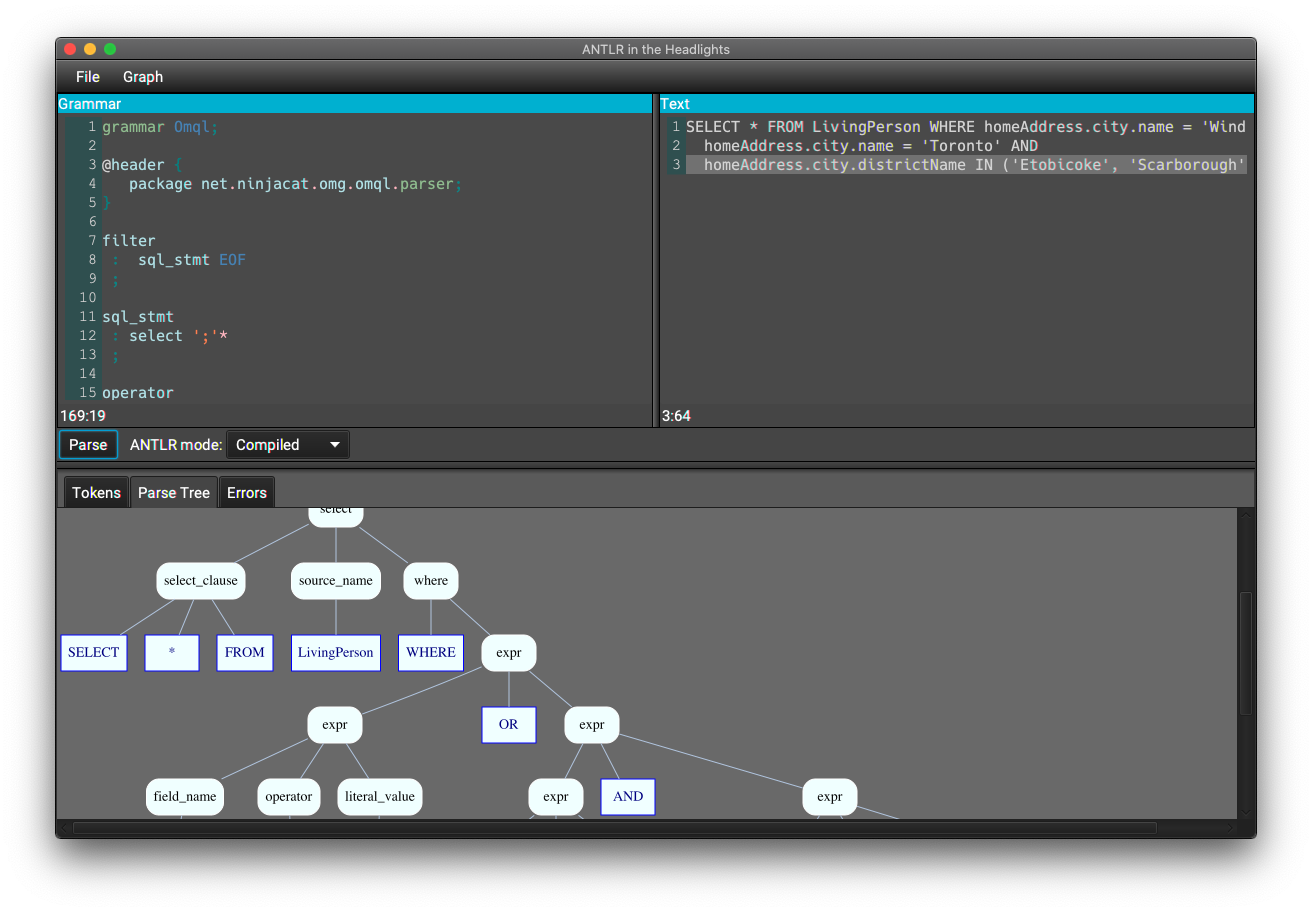
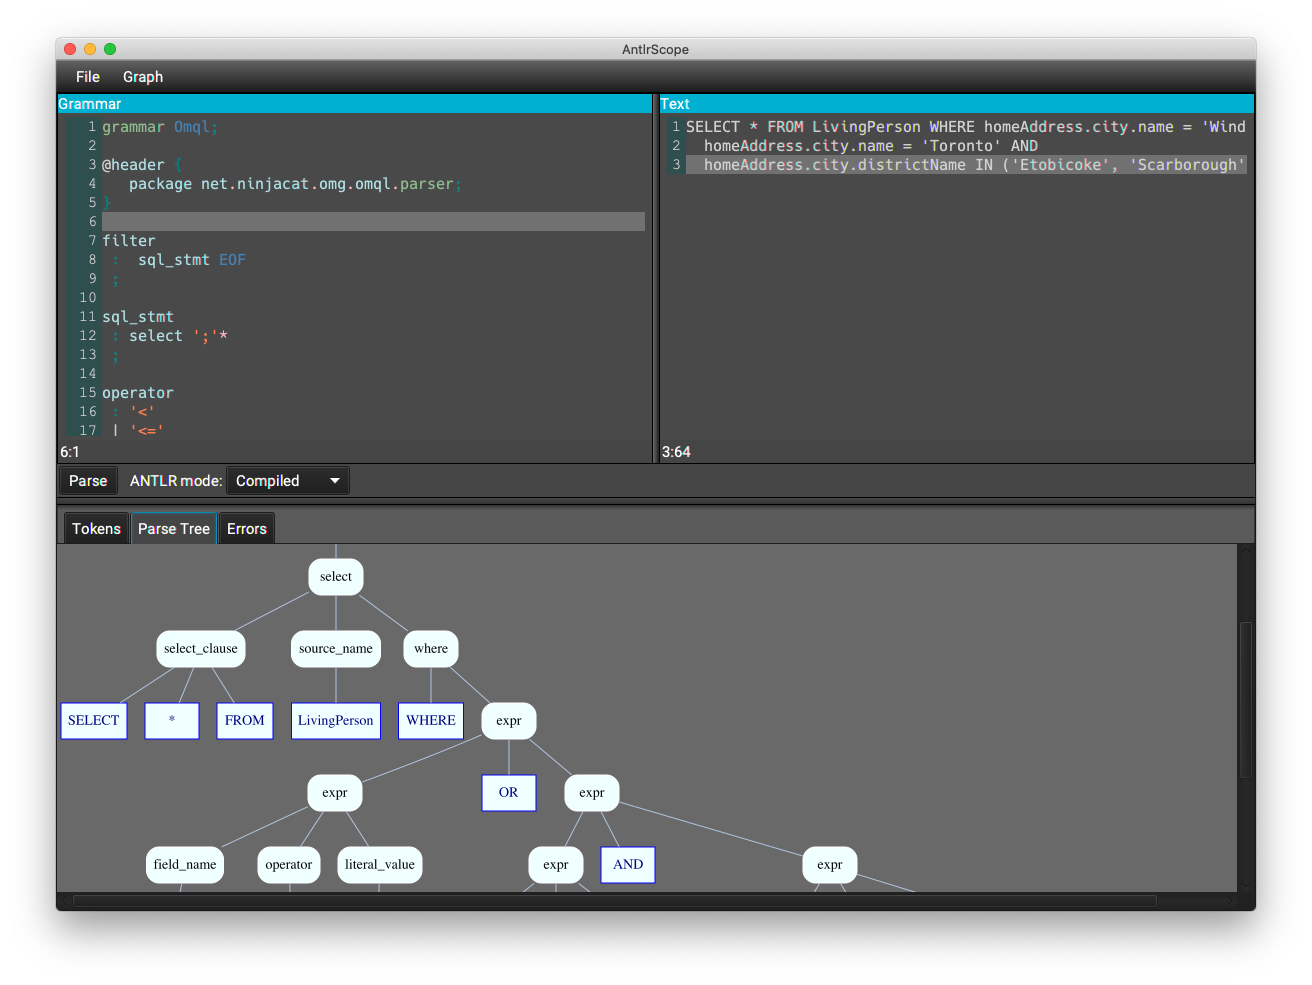
Renaming more

Changed region(s): [[0.0312, 0.0307, 0.9688, 0.9518], [0.5312, 0.8289, 0.5938, 0.8596]]

diff --git a/src/main/kotlin/net/ninjacat/antlrscope/App.kt b/src/main/kotlin/net/ninjacat/antlrscope/App.kt
@@ -1,4 +1,4 @@
-package net.ninjacat.headlights
+package net.ninjacat.antlrscope
 
 import ch.qos.logback.classic.Level
 import javafx.application.Application
@@ -18,9 +18,9 @@ import javafx.scene.layout.Priority
 import javafx.scene.layout.VBox
 import javafx.stage.FileChooser
 import javafx.stage.Stage
-import net.ninjacat.headlights.antlr.*
-import net.ninjacat.headlights.ui.GrammarTextEditorPane
-import net.ninjacat.headlights.ui.OutputPane
+import net.ninjacat.antlrscope.antlr.*
+import net.ninjacat.antlrscope.ui.GrammarTextEditorPane
+import net.ninjacat.antlrscope.ui.OutputPane
 import org.slf4j.Logger
 import org.slf4j.LoggerFactory
 import java.awt.Desktop
@@ -36,7 +36,7 @@ class AntlrViewApp : Application() {
     private val antlrMode = ComboBox(FXCollections.observableArrayList("Interpreted", "Compiled"))
 
     override fun start(primaryStage: Stage) {
-        primaryStage.title = "ANTLR in the Headlights"
+        primaryStage.title = "AntlrScope"
         primaryStage.width = 1200.0
         primaryStage.height = 800.0
 
@@ -256,7 +256,7 @@ class AntlrViewApp : Application() {
     }
 
     companion object { 
-        private val LOGGER: Logger = LoggerFactory.getLogger("headlights")
+        private val LOGGER: Logger = LoggerFactory.getLogger("antlrscope")
     }
 
 

diff --git a/src/main/kotlin/net/ninjacat/antlrscope/antlr/AntlrCompiler.kt b/src/main/kotlin/net/ninjacat/antlrscope/antlr/AntlrCompiler.kt
@@ -1,4 +1,4 @@
-package net.ninjacat.headlights.antlr
+package net.ninjacat.antlrscope.antlr
 
 import org.antlr.v4.Tool
 import org.antlr.v4.tool.Grammar
@@ -96,7 +96,7 @@ class AntlrCompiler(grammar: String, text: String, private val javaCompiler: Jav
     }                            
 
     companion object {
-        val LOGGER: Logger = LoggerFactory.getLogger("headlights.antlr.compiler")
+        val LOGGER: Logger = LoggerFactory.getLogger("antlrscope.antlr.compiler")
 
         val grammarNameExtractor: Pattern =
             Pattern.compile("(?:(?:lexer|parser)\\s+)?grammar\\s+([a-zA-Z_]\\w*);", Pattern.DOTALL)

diff --git a/src/main/kotlin/net/ninjacat/antlrscope/ui/OutputPane.kt b/src/main/kotlin/net/ninjacat/antlrscope/ui/OutputPane.kt
@@ -1,12 +1,12 @@
-package net.ninjacat.headlights.ui
+package net.ninjacat.antlrscope.ui
 
 import javafx.event.EventHandler
 import javafx.scene.control.*
 import javafx.scene.control.cell.PropertyValueFactory
 import javafx.scene.input.MouseButton
-import net.ninjacat.headlights.antlr.ErrorMessage
-import net.ninjacat.headlights.antlr.LexerToken
-import net.ninjacat.headlights.antlr.ParseTreeNode
+import net.ninjacat.antlrscope.antlr.ErrorMessage
+import net.ninjacat.antlrscope.antlr.LexerToken
+import net.ninjacat.antlrscope.antlr.ParseTreeNode
 import java.util.function.Consumer
 
 class OutputPane : TabPane() {

diff --git a/src/main/kotlin/net/ninjacat/antlrscope/ui/GraphvizView.kt b/src/main/kotlin/net/ninjacat/antlrscope/ui/GraphvizView.kt
@@ -1,4 +1,4 @@
-package net.ninjacat.headlights.ui
+package net.ninjacat.antlrscope.ui
 
 import guru.nidi.graphviz.engine.Format
 import guru.nidi.graphviz.engine.Graphviz
@@ -6,8 +6,8 @@ import guru.nidi.graphviz.parse.Parser
 import javafx.scene.control.ScrollPane
 import javafx.scene.image.Image
 import javafx.scene.image.ImageView
-import net.ninjacat.headlights.GraphvizGen
-import net.ninjacat.headlights.antlr.ParseTreeNode
+import net.ninjacat.antlrscope.GraphvizGen
+import net.ninjacat.antlrscope.antlr.ParseTreeNode
 import java.io.ByteArrayInputStream
 import java.io.ByteArrayOutputStream
 

diff --git a/src/main/kotlin/net/ninjacat/antlrscope/ui/GrammarTextEditorPane.kt b/src/main/kotlin/net/ninjacat/antlrscope/ui/GrammarTextEditorPane.kt
@@ -1,4 +1,4 @@
-package net.ninjacat.headlights.ui
+package net.ninjacat.antlrscope.ui
 
 import javafx.event.Event
 import javafx.event.EventHandler
@@ -11,8 +11,8 @@ import javafx.scene.input.MouseEvent
 import javafx.scene.layout.HBox
 import javafx.scene.layout.Priority
 import javafx.scene.layout.VBox
-import net.ninjacat.headlights.G4Highlighter
-import net.ninjacat.headlights.ParagraphStyler
+import net.ninjacat.antlrscope.G4Highlighter
+import net.ninjacat.antlrscope.ParagraphStyler
 import org.fxmisc.richtext.CodeArea
 import org.fxmisc.richtext.LineNumberFactory
 import java.io.File

diff --git a/src/main/kotlin/net/ninjacat/antlrscope/antlr/AntlrParsing.kt b/src/main/kotlin/net/ninjacat/antlrscope/antlr/AntlrParsing.kt
@@ -1,16 +1,12 @@
-package net.ninjacat.headlights.antlr
+package net.ninjacat.antlrscope.antlr
 
-import javafx.scene.control.TreeItem
 import org.antlr.v4.runtime.Lexer
 import org.antlr.v4.runtime.ParserRuleContext
-import org.antlr.v4.runtime.RuleContext
 import org.antlr.v4.runtime.Token
 import org.antlr.v4.runtime.tree.ErrorNode
 import org.antlr.v4.runtime.tree.ParseTree
 import org.antlr.v4.runtime.tree.TerminalNode
 import java.util.*
-import kotlin.random.Random
-import kotlin.random.nextUInt
 
 enum class ErrorSource {
     GRAMMAR,

diff --git a/src/main/kotlin/net/ninjacat/antlrscope/antlr/AntlrGen.kt b/src/main/kotlin/net/ninjacat/antlrscope/antlr/AntlrGen.kt
@@ -1,4 +1,4 @@
-package net.ninjacat.headlights.antlr
+package net.ninjacat.antlrscope.antlr
 
 import org.antlr.v4.runtime.ANTLRErrorListener
 import org.antlr.v4.runtime.Parser
@@ -6,7 +6,6 @@ import org.antlr.v4.runtime.RecognitionException
 import org.antlr.v4.runtime.Recognizer
 import org.antlr.v4.runtime.atn.ATNConfigSet
 import org.antlr.v4.runtime.dfa.DFA
-import org.antlr.v4.runtime.tree.ParseTree
 import org.antlr.v4.tool.ANTLRMessage
 import org.antlr.v4.tool.ANTLRToolListener
 import org.antlr.v4.tool.Grammar

diff --git a/src/main/kotlin/net/ninjacat/antlrscope/GraphvizGen.kt b/src/main/kotlin/net/ninjacat/antlrscope/GraphvizGen.kt
@@ -1,8 +1,8 @@
-package net.ninjacat.headlights
+package net.ninjacat.antlrscope
 
-import net.ninjacat.headlights.antlr.ParseTreeError
-import net.ninjacat.headlights.antlr.ParseTreeNode
-import net.ninjacat.headlights.antlr.ParseTreeTerminal
+import net.ninjacat.antlrscope.antlr.ParseTreeError
+import net.ninjacat.antlrscope.antlr.ParseTreeNode
+import net.ninjacat.antlrscope.antlr.ParseTreeTerminal
 
 object GraphvizGen {
 

diff --git a/src/test/kotlin/net/ninjacat/antlrscope/antlr/AntlrCompilerTest.kt b/src/test/kotlin/net/ninjacat/antlrscope/antlr/AntlrCompilerTest.kt
@@ -1,4 +1,4 @@
-package net.ninjacat.headlights.antlr
+package net.ninjacat.antlrscope.antlr
 
 import org.assertj.core.api.Assertions.assertThat
 import org.junit.jupiter.api.Test

diff --git a/src/main/kotlin/net/ninjacat/antlrscope/G4Highlighter.kt b/src/main/kotlin/net/ninjacat/antlrscope/G4Highlighter.kt
@@ -1,4 +1,4 @@
-package net.ninjacat.headlights
+package net.ninjacat.antlrscope
 
 import org.fxmisc.richtext.model.StyleSpans
 import org.fxmisc.richtext.model.StyleSpansBuilder

diff --git a/src/main/kotlin/net/ninjacat/antlrscope/antlr/AntlrExecutor.kt b/src/main/kotlin/net/ninjacat/antlrscope/antlr/AntlrExecutor.kt
@@ -1,4 +1,4 @@
-package net.ninjacat.headlights.antlr
+package net.ninjacat.antlrscope.antlr
 
 import org.antlr.v4.runtime.*
 import org.antlr.v4.runtime.tree.ParseTree

diff --git a/src/main/kotlin/net/ninjacat/antlrscope/ParagraphStyler.kt b/src/main/kotlin/net/ninjacat/antlrscope/ParagraphStyler.kt
@@ -1,4 +1,4 @@
-package net.ninjacat.headlights
+package net.ninjacat.antlrscope
 
 import javafx.application.Platform
 import org.fxmisc.richtext.GenericStyledArea
